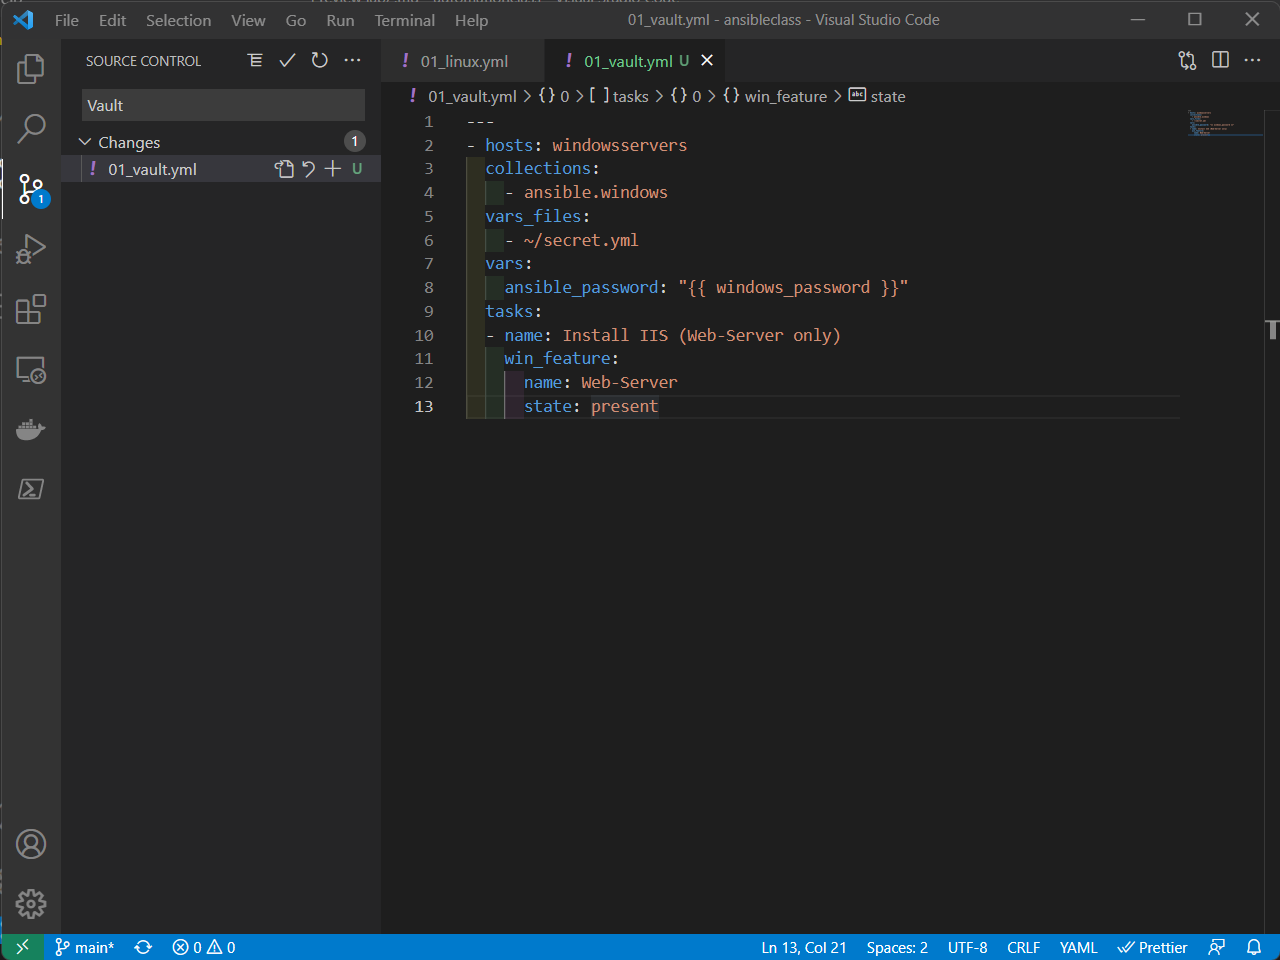
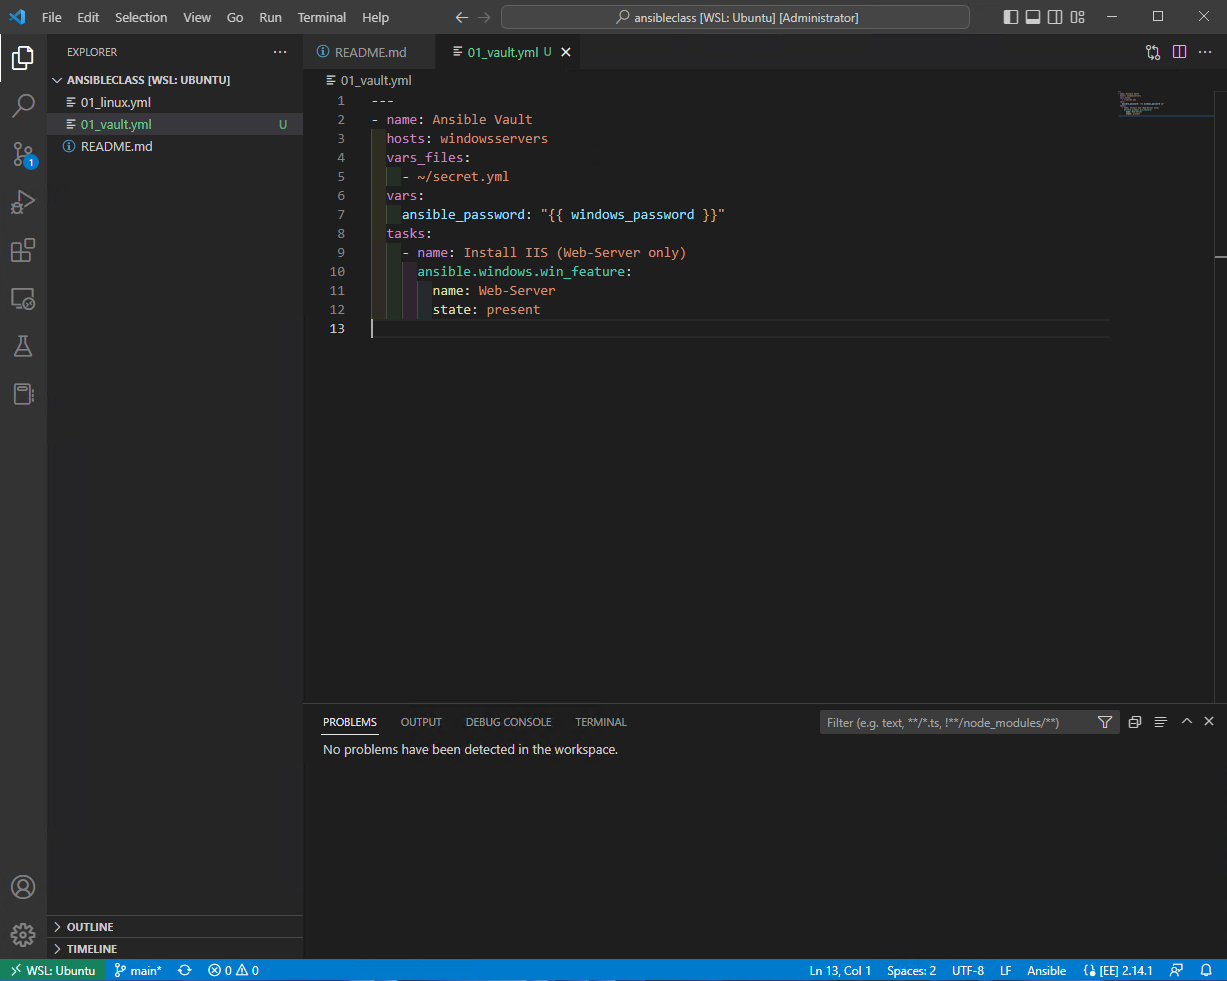
lab4 task1 done

diff --git a/website/content/lab04/task1/_index.md b/website/content/lab04/task1/_index.md
@@ -120,18 +120,18 @@ __Type:__
 
 ```ansible
 ---
-- hosts: windowsservers
-  collections:
-    - ansible.windows
+- name: Ansible Vault
+  hosts: windowsservers
   vars_files:
     - ~/secret.yml
   vars:
     ansible_password: "{{ windows_password }}"
   tasks:
-  - name: Install IIS (Web-Server only)
-    win_feature:
-      name: Web-Server
-      state: present
+    - name: Install IIS (Web-Server only)
+      ansible.windows.win_feature:
+        name: Web-Server
+        state: present
+
 ```
 
 Save the file

diff --git a/website/content/lab04/_index.md b/website/content/lab04/_index.md
@@ -5,7 +5,7 @@ chapter: false
 pre: "<b>Lab 4. </b>"
 ---
 
-In this session we will install and use Visual Studio Code with a few plugins to start working with ansible playbooks and create two playbooks, one for linux and one for windows
+In this lab we will secure our secrets with Ansible Vault
 
 ## Table of Contents
 
